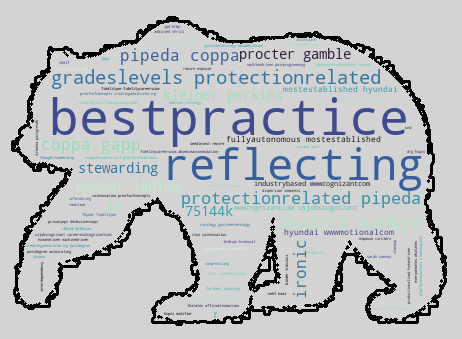
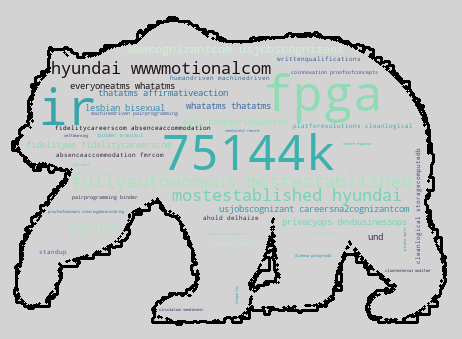
finished parsing monograms down to gleaned

diff --git a/nlp_main.py b/nlp_main.py
@@ -1215,7 +1215,64 @@ def clean_for_nlp(series_of_interest):
                                             'farming', 'skillsqualifications', 'edr', 'lighting', 'archival', 'designthinking',
                                             'celonis', 'everexpanding', 'ftes', 'indigenous', 'analyzer', 'mentalphysical',
                                             'dubai', 'fruition', 'manually', 'mandating', 'hazmat', 'ln', 'handled', 'negligible',
-                                            'underpinning', 'underpinned', 'sf15', 'justify', 'chegg', 'conferencing', 'honorable']))) + ds_skills_combined
+                                            'underpinning', 'underpinned', 'sf15', 'justify', 'chegg', 'conferencing', 'honorable',
+                                            'outsized', 'ratio', '110', 'disambiguation', 'superset', 'wyndham', 'issuer', 
+                                            'complimentary', 'gilead', 'tightly', 'accompanied', 'gauge', 'realtorcom', 
+                                            'assimilate', 'medal', 'originally', 'decline', 'prefect', 'figma', 'cutoff', 
+                                            'homomorphic', 'interconnected', 'cube', 'renter', 'profitsharing', 'actigraph', 
+                                            'harrison', 'remotework', 'writtenqualifications', 'hbo', 'settle', 'wholeperson',
+                                            'relish', 'proofofconcepts', 'passivelogic', 'vertex', 'web3', 'immunotherapy',
+                                            'martech', 'mainframe', 'permanente', 'worcester', 'facilitated', 'lading', 'absent',
+                                            '7500000', 'costco', 'tenacity', 'concierge', 'und', 'translated', 'rescinded',
+                                            'jdcom', 'verisks', 'httpswwwinstagramcomastrazeneca_careershlen', 'stooping',
+                                            'aberdeen', 'liverampers', 'wideranging', 'soliciting', 'invaluable', 'afford',
+                                            'hyundai', 'highway', 'backtesting', 'obw', 'binder', '1990', 'fixing',
+                                            'climb', 'kroger', 'relatively', 'lumentechnologies', 'usac', 'compensationbenefits',
+                                            'asd', 'composable', 'warner', 'wwwcognizantcom', '10point', 'airbnb', 'productized',
+                                            'tea', 'educated', 'alternatively', 'frederick', 'reassignment', 'nonstatistical',
+                                            'csr', 'besides', 'careersna2cognizantcom', 'dmp', 'bxds', 'usjobscognizant',
+                                            'betterment', 'didi', 'globalized', 'promoted', 'mindfulness', 'examines', 'amended',
+                                            'dha', 'correctness', 'mechanistic', 'affirmativeaction', 'whatatms', 'logo', 'ir', 
+                                            'hedge', 'pixel', 'sandbox', 'offset', 'quants', 'tds', 'prudentials', 'newsroom',
+                                            'french', 'lesbian', 'threaten', 'impediment', 'noaa', 'intercept', '75144k', 'fed',
+                                            '2040', 'blizzard', 'countrybased', 'machinedriven', 'trident', 'humandriven',
+                                            'labelling', 'combatant', 'tandem', 'aspen', 'communitybased', 'castle', 'alwayson', 
+                                            'aaai', 'consumercentric', 'definitive', 'im', 'inapp', 'kentucky', 'assuring', 'tiny',
+                                            'highfidelity', 'wwwmotionalcom', 'aledade', 'characterbased', 'flexibly', 'gogetter', 
+                                            'hardwaresoftware', 'httpswwwfacebookcomastrazenecacareers', 'leaguers', 'tfl', 
+                                            'atlassians', '2025', 'universitywide', 'luis', 'guardrail', 'pleasant', 'at', 
+                                            'highlymotivated', 'maritime', 'lover', 'satisfying', 'zeppelin', 'fidelitycareerscom',
+                                            'generic', 'ky', 'roche', 'defending', 'swe', 'cytel', 'rev', 'synchronization',
+                                            'classic', 'receivable', 'tactically', 'incubate', 'operationally', 'wy', 
+                                            'infertility', 'consumerfacing', 'guardian', 'eeoaffirmative', 'zoetis', 'dinner',
+                                            'revolut', 'egencia', 'vote', 'sum', 'exec', 'tucson', 'jewelry', 'fighting',
+                                            'westchester', 'tobaccofree', 'probe', 'hathaway', 'mostestablished', '39',
+                                            'tesseract', 'adf', 'altice', 'ind123', 'immigrant', 'amherst', 'categoriesunited',
+                                            'phenotypic', 'journalist', 'harm', '114700', 'lastly', 'airborne', 'detected',
+                                            'explosive', 'province', 'subtype', 'glossary', 'eeo2', 'conduit', 'partitioning',
+                                            'collision', 'antidiscrimination', 'outage', 'lukos', 'inbranch', 'father',
+                                            'drivetime', 'transportationrelated', 'convince', 'prognostic', 'hellofresh',
+                                            'knit', 'willamette', 'pod', 'privacyops', 'decrease', 'cameo', 'gsn', 'frontdoor', 
+                                            'devbusinessops', 'oig', 'adoptive', 'reactive', 'addressable', 'prohibiting',
+                                            'longerterm', 'ado', 'streamlines', '1400', 'packet', 'datorama', 'thatatms', 
+                                            'everyoneatms', 'mumbai', 'parson', 'merges', 'delhaize', 'highpriority', 'scrub',
+                                            'statewide', 'ahold', 'happier', '350', 'correcting', 'anaplan', 'erpi', 'broadband'
+                                            'crown', 'dailypay', 'ergonomic', 'inmemory', 'nfl', 'ripple', 'peacock', 'readout',
+                                            'pitfall', 'lipfe', 'lululemon', 'absenceaccommodation', 'unifying', 'praescient',
+                                            'fmrcom', 'kneeling', 'concurrency', 'criticism', 'watching', '800am', 'behave',
+                                            'richer', 'firewall', 'wow', 'assumes', 'lecture', '300000', 'dd214', 'shortage',
+                                            'pickup', 'deepest', 'accommodationsguidewirecom', 'interdependency', 'disruptors',
+                                            '3564940', 'pave', '20211012', 'pdd', 'fidelitywe', 'noninternship', 'mlb', 'shy',
+                                            'stripe', 'cac', 'firstparty', 'indigo', 'fanatic', 'asu', 'restricts', 'wmd',
+                                            'surfacing', 'hacker', 'interventional', '320', 'monetary', 'boulder', 'kyiv', 'cfo',
+                                            'hyper', 'peertopeer', 'reviewtrackers', 'vc', 'coinnovation', 'expressed',
+                                            'productsanalytic', 'welldesigned', 'ew', 'hematology', 'deems', 'geopolitical',
+                                            'wifi', '1700', 'nondiscriminatory', 'gallagher', 'posed', 'alion', 'misconduct',
+                                            'gear', 'exhibiting', 'absolute', 'circulation', 'wet', 'impress', 'countering',
+                                            'pairprogramming', '1020', 'filed', 'usaf', 'cae', 'pregnancyrelated', '140', 
+                                            'chainlink', 'ended', 'celebrity', 'wildfire', '1800', 'eoeaa', 'travisci', 
+                                            'dohme', 'chandler', 'biomedicine', 'modeled', 'enova', 'thornton', 'drawn', 'shi',
+                                            'bisexual', 'mason', 'versa', 'gleaned']))) + ds_skills_combined
     
     # create stop_words object and toggle on/off additional stop words
     stop_words = nltk.corpus.stopwords.words('english') + additional_stopwords + ds_cred_terms + ds_prof_skill_terms + ds_soft_skill_terms + ds_tech_skill_terms
@@ -1603,6 +1660,7 @@ ds_cred_terms = ['ability',
                  'operation', 
                  'peerreviewed', 
                  'phd',
+                 'phdms',
                  'physic',
                  'physical',
                  'polygraph',
@@ -1696,6 +1754,7 @@ ds_tech_skill_terms = ['ab',
                      'analyticsdata',
                      'analytically',
                      'analyse',
+                     'analysing',
                      'analyze',
                      'analyzed',
                      'analyzes',
@@ -1730,6 +1789,7 @@ ds_tech_skill_terms = ['ab',
                      'automate',
                      'automating',
                      'autonomously',
+                     'fullyautonomous',
                      'automl',
                      'aws', 
                      'azure',
@@ -1748,6 +1808,8 @@ ds_tech_skill_terms = ['ab',
                      'bokeh',
                      'boosted',
                      'boosting',
+                     'bootstrap',
+                     'bootstrapping',
                      'breakthrough',
                      'build', 
                      'c',
@@ -1768,6 +1830,7 @@ ds_tech_skill_terms = ['ab',
                      'clean',
                      'cleaning',
                      'cleansing',
+                     'cleansed',
                      'cli',
                      'cloud', 
                      'cloudbased',
@@ -1844,6 +1907,7 @@ ds_tech_skill_terms = ['ab',
                      'datascience',
                      'dataset',
                      'datasets',
+                     'databacked',
                      'database',
                      'databased',
                      'datamining',
@@ -1946,6 +2010,7 @@ ds_tech_skill_terms = ['ab',
                      'fusion',
                      'gan',
                      'gans',
+                     'gaussian',
                      'gbm',
                      'generation',
                      'generated',
@@ -2016,6 +2081,7 @@ ds_tech_skill_terms = ['ab',
                      'integration',
                      'integrity',
                      'intelligence',
+                     'intelligenceinsights',
                      'interactive',
                      'interface',
                      'interpretation',
@@ -2058,6 +2124,7 @@ ds_tech_skill_terms = ['ab',
                      'learningartificial',
                      'learningdata',
                      'learningdeep',
+                     'learningenabled',
                      'learningpredictive',
                      'lex',
                      'library',
@@ -2139,6 +2206,7 @@ ds_tech_skill_terms = ['ab',
                      'mongo',
                      'mongodb',
                      'monte',
+                     'mpi',
                      'multiarm',
                      'multiarmed',
                      'multidimensional',
@@ -2252,6 +2320,7 @@ ds_tech_skill_terms = ['ab',
                      'programming', 
                      'programmingscripting',
                      'pso',
+                     'pycharm',
                      'ipython',
                      'python',
                      'pythonbased',
@@ -2346,6 +2415,7 @@ ds_tech_skill_terms = ['ab',
                      'script', 
                      'scripting',
                      'scrum',
+                     'scrumagile',
                      'scikit',
                      'scikitlearn',
                      'scipy',
@@ -2356,6 +2426,7 @@ ds_tech_skill_terms = ['ab',
                      'search',
                      'segment',
                      'segmentation',
+                     'selenium',
                      'semantic',
                      'semantically',
                      'semantics', 
@@ -2419,6 +2490,7 @@ ds_tech_skill_terms = ['ab',
                      'statistical',
                      'statisticalmathematical',
                      'statisticalmachine',
+                     'statisticalml',
                      'statistician',
                      'stateoftheart',
                      'stata',
@@ -2496,6 +2568,7 @@ ds_tech_skill_terms = ['ab',
                      'vision',
                      'visionimage',
                      'visualize',
+                     'visualisation',
                      'visualization',
                      'visualizing',
                      'visualizingpresenting',
@@ -2510,6 +2583,7 @@ ds_tech_skill_terms = ['ab',
                      'watson',
                      'web',
                      'weka',
+                     'word2vec',
                      'wrangle',
                      'wrangler',
                      'wranglingcleansing',
@@ -2674,6 +2748,7 @@ ds_soft_skill_terms = ['ad',
                      'meticulous',
                      'minimal', 
                      'motivated',
+                     'multidisciplined',
                      'multidisciplinary',
                      'multifunctional',
                      'multitasking',
@@ -2738,6 +2813,8 @@ ds_soft_skill_terms = ['ad',
                      'scrum',
                      'selfdirected',
                      'selfdirection',
+                     'selfmanage',
+                     'selfdevelopment',
                      'selfdriven',
                      'selfstarter',
                      'selfstarting',
